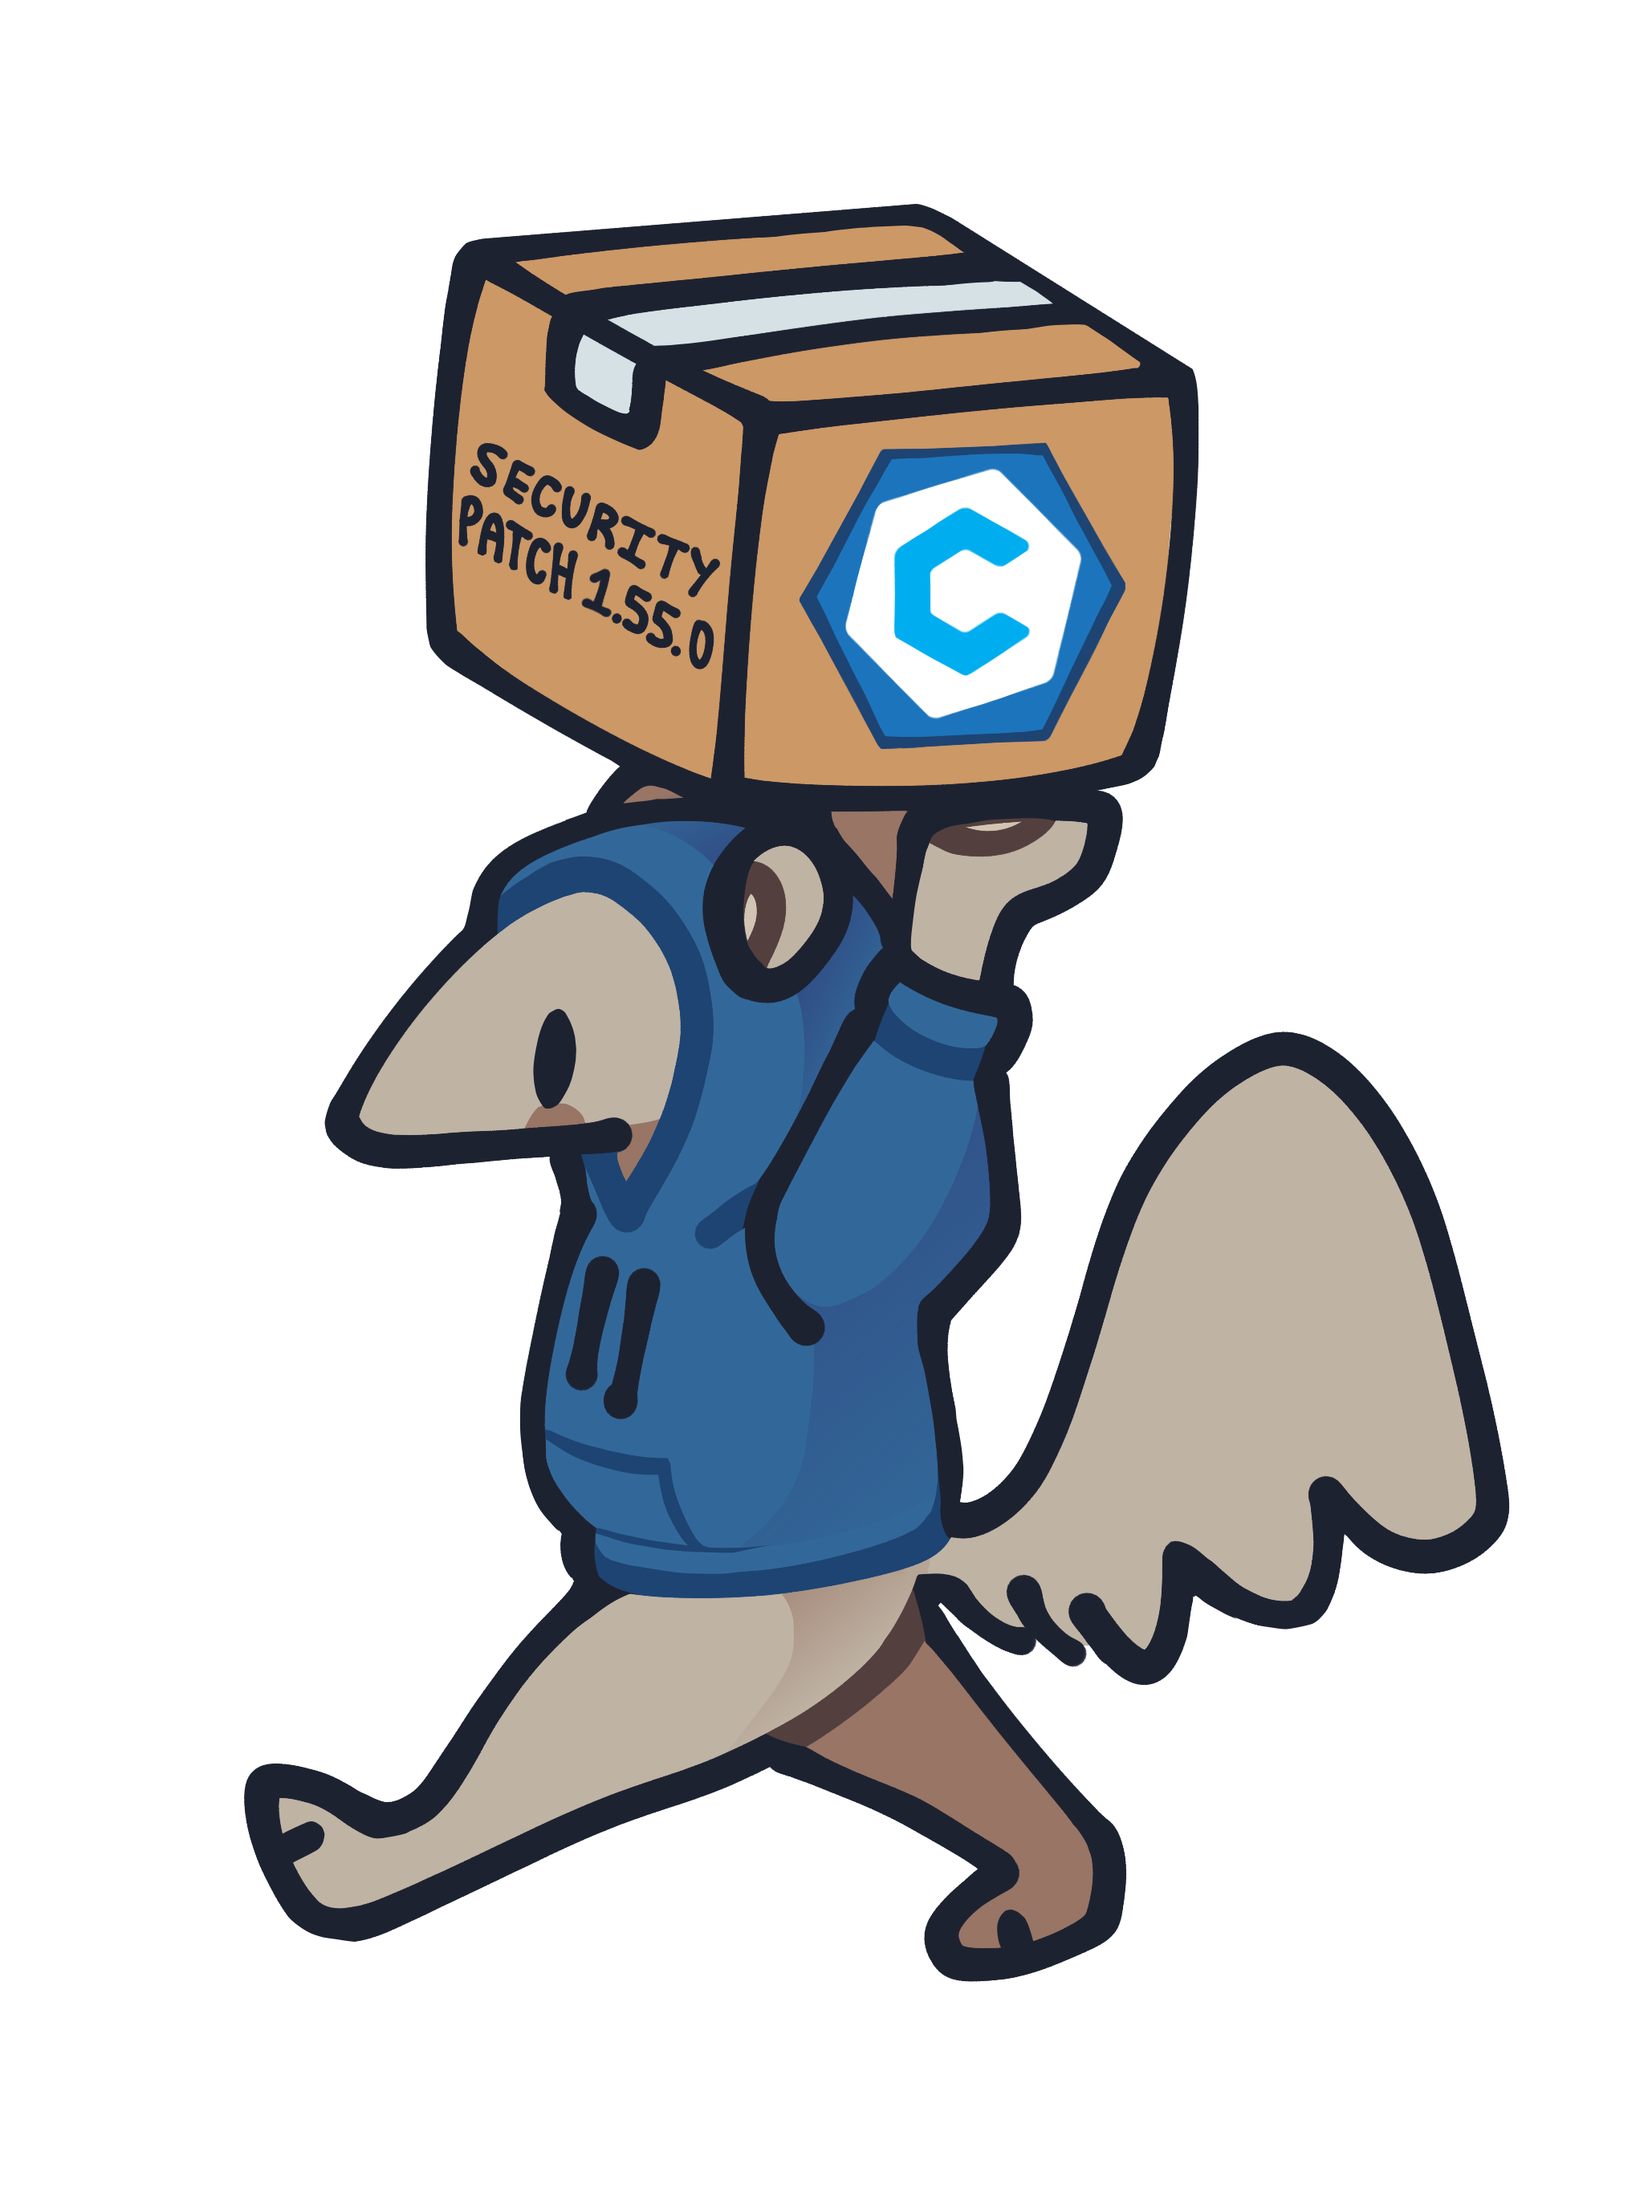
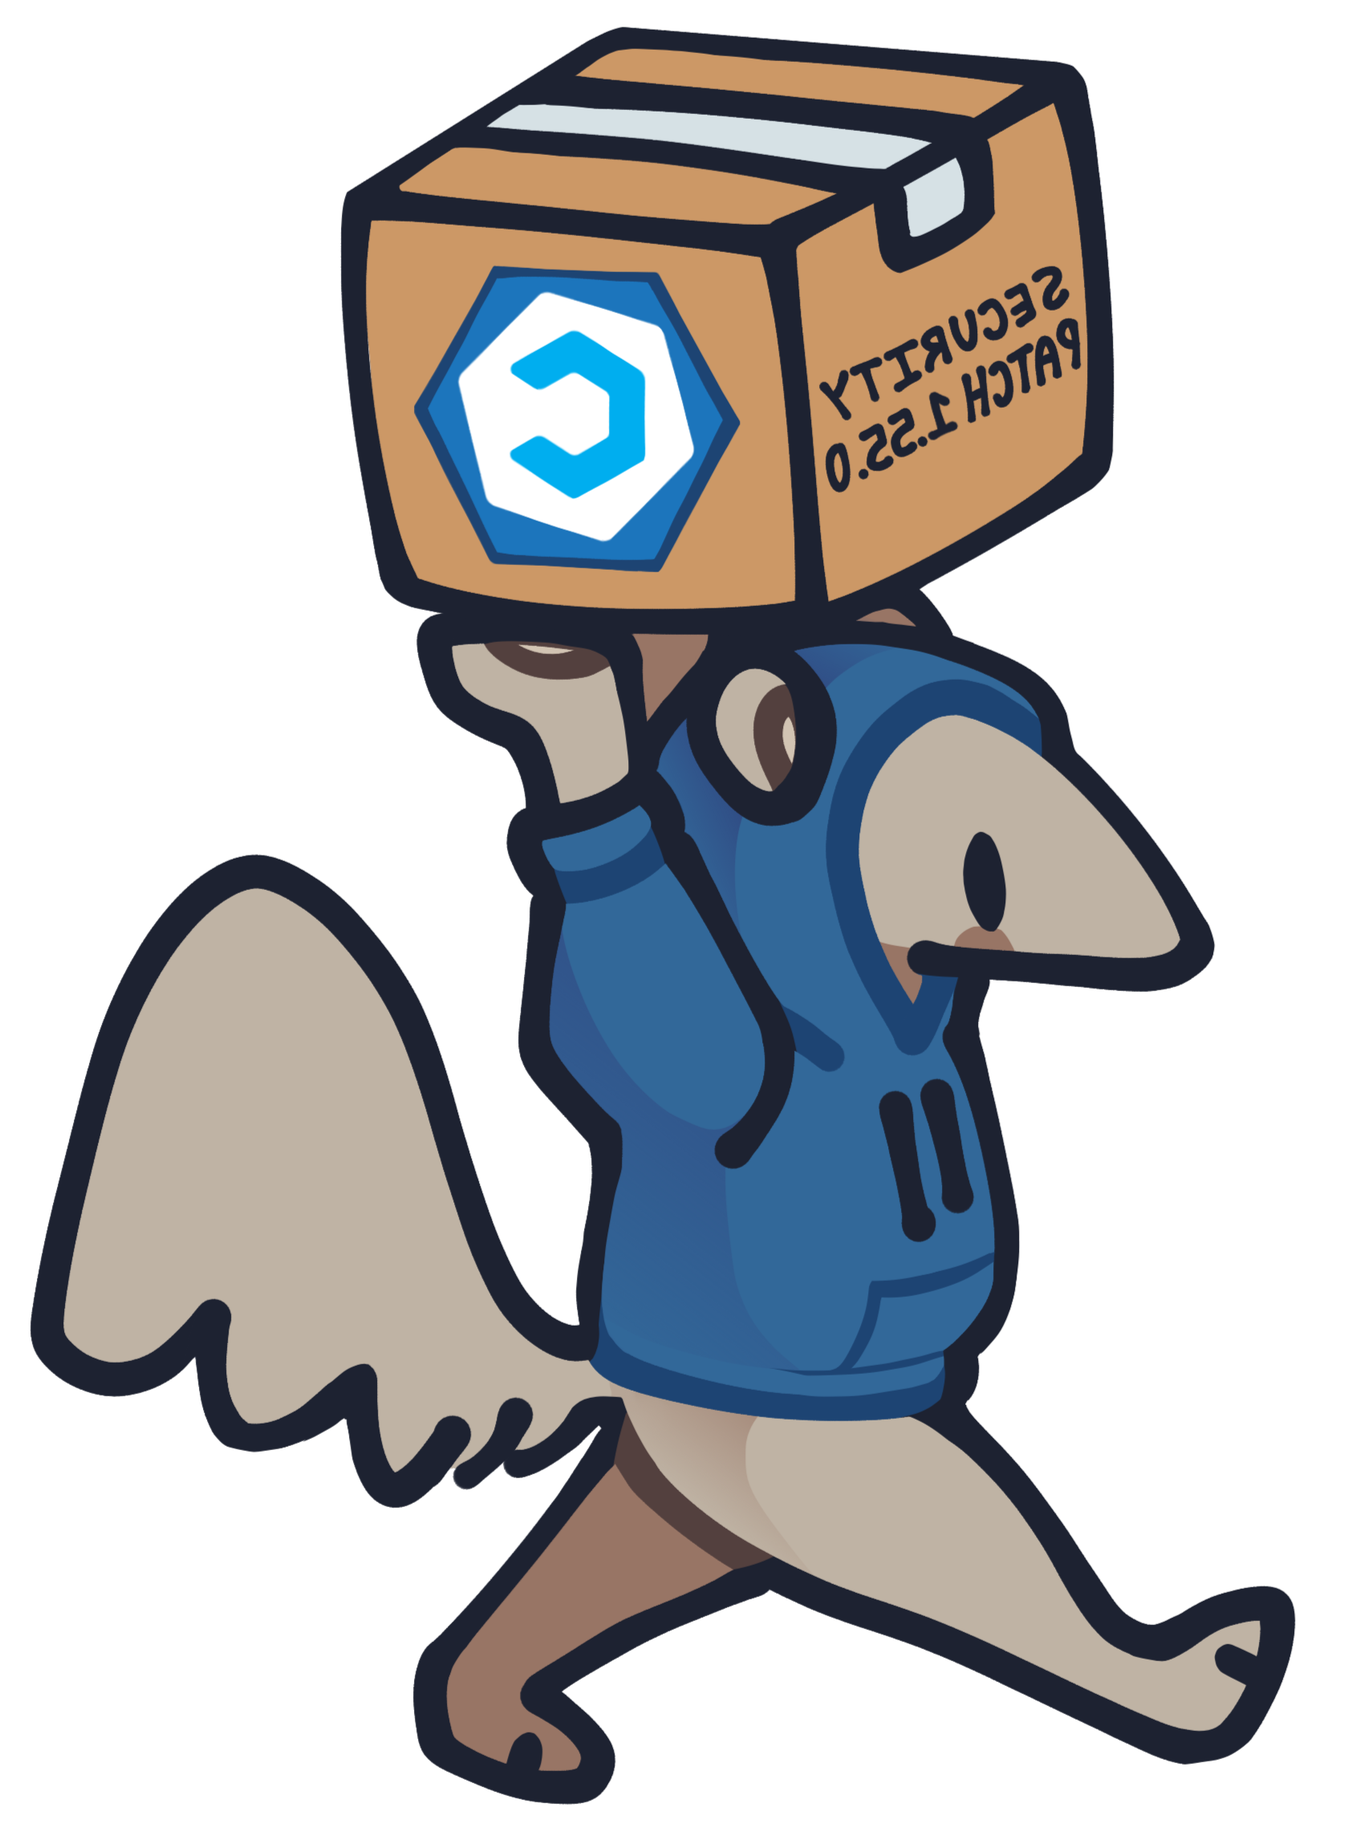
Updated image positioning

diff --git a/apps/site/src/routes/subteams/graphics/GraphicsEditor.svelte b/apps/site/src/routes/subteams/graphics/GraphicsEditor.svelte
@@ -63,11 +63,11 @@
 			id: 'text',
 			name: 'Cyber@UCI',
 			visible: true,
-			coords: { x: 300, y: 28 },
+			coords: { x: 208, y: 24 },
 			dimensions: { w: 280, h: 40 },
 			fill: ACCENT,
 			stroke: STROKE,
-			fontSize: 28,
+			fontSize: 70,
 			fontFamily: 'pixelify',
 			kind: 'text'
 		},
@@ -75,8 +75,8 @@
 			id: 'logo',
 			name: 'Cyber@UCI Logo',
 			visible: true,
-			coords: { x: 320, y: 210 },
-			dimensions: { w: 140, h: 130 },
+			coords: { x: 265, y: 196 },
+			dimensions: { w: 215, h: 199 },
 			fill: ACCENT,
 			stroke: STROKE,
 			fontSize: 16,
@@ -99,8 +99,8 @@
 			id: 'secure',
 			name: 'Shield Anteater',
 			visible: true,
-			coords: { x: 270, y: 55 },
-			dimensions: { w: 220, h: 195 },
+			coords: { x: 515, y: 70 },
+			dimensions: { w: 133, h: 117 },
 			fill: ACCENT,
 			stroke: STROKE,
 			fontSize: 16,
@@ -111,7 +111,7 @@
 			id: 'laptop',
 			name: 'Laptop Anteater',
 			visible: true,
-			coords: { x: 540, y: 95 },
+			coords: { x: 263, y: 92 },
 			dimensions: { w: 190, h: 145 },
 			fill: ACCENT,
 			stroke: STROKE,
@@ -375,7 +375,7 @@
 							style:left="{layer.coords.x / 7.8}%"
 							style:top="{layer.coords.y / 4.2}%"
 							style:width="{layer.dimensions.w / 7.8}%"
-							style:height="{layer.dimensions.h / 4.2}%"
+							style:height="auto"
 							style:z-index={selectedId === layer.id ? 20 : 2}
 							style:cursor={layer.locked
 								? 'default'
@@ -396,6 +396,7 @@
 								alt=""
 								draggable="false"
 								class="sticker pointer-events-none h-full w-full object-contain"
+								style="border: solid 1px"
 							/>
 							{#if selectedId === layer.id && !layer.locked}
 								{#each RESIZE_HANDLES as handle (handle)}
